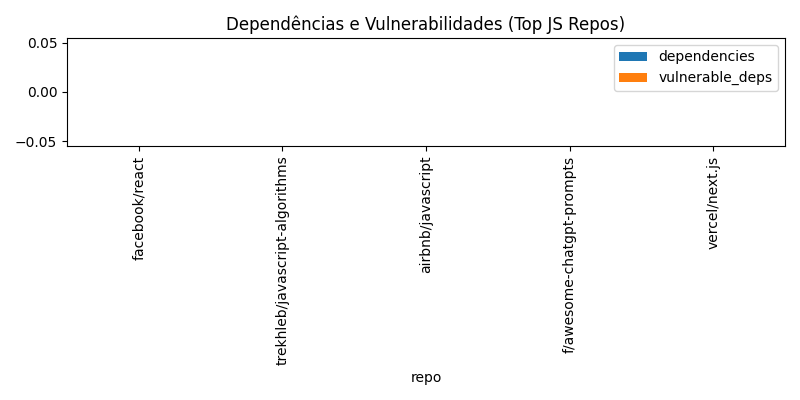
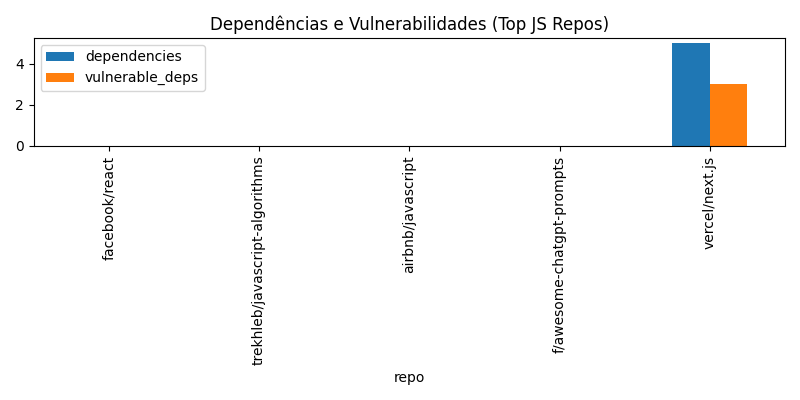
feat: adicionado busca dos pacotes vulneraveis pela api do cve, next possui vulnerabilidades

diff --git a/app/scripts/metrics.py b/app/scripts/metrics.py
@@ -2,12 +2,40 @@ import requests
 import json
 from scripts.github_api import fetch_package_json
 
+COMMON_PATHS = [
+    "",
+    "packages/react",
+    "packages/next",
+    "packages/core",
+    "apps",
+    "examples",
+    "src",
+]
+
+
+def try_fetch_any_package_json(repo_full_name):
+    """Tenta buscar o package.json em vários caminhos e escolhe o mais completo."""
+    best_pkg = None
+    best_path = ""
+    max_deps = 0
+
+    for path in COMMON_PATHS:
+        pkg = fetch_package_json(repo_full_name, subpath=path)
+        if not pkg:
+            continue
+
+        deps = pkg.get("dependencies", {})
+        total = len(deps)
+        if total > max_deps:
+            best_pkg = pkg
+            best_path = path
+            max_deps = total
+
+    return best_pkg, best_path
+
 
 def get_cve_for_package(package_name):
-    """
-    Busca vulnerabilidades (CVE) de um pacote NPM via API do OSV (Google).
-    Documentação: https://osv.dev/docs/
-    """
+    """Busca vulnerabilidades (CVE) de um pacote NPM via API do OSV.dev."""
     url = "https://api.osv.dev/v1/query"
     payload = {"package": {"name": package_name, "ecosystem": "npm"}}
     try:
@@ -22,10 +50,7 @@ def get_cve_for_package(package_name):
 
 
 def get_metrics(repo, token):
-    """
-    Coleta métricas principais: dependências e vulnerabilidades.
-    Não baixa o repositório completo — apenas o package.json.
-    """
+    """Coleta métricas principais: dependências e vulnerabilidades."""
     metrics = {
         "repo": repo["name"],
         "stars": repo["stars"],
@@ -34,21 +59,26 @@ def get_metrics(repo, token):
         "dev_dependencies": 0,
         "vulnerable_deps": 0,
         "cves": [],
+        "path_usado": "",
     }
 
-    pkg = fetch_package_json(repo["name"])
+    pkg, used_path = try_fetch_any_package_json(repo["name"])
     if not pkg:
+        print(f"⚠ Nenhum package.json encontrado em {repo['name']}")
         return metrics
 
     deps = pkg.get("dependencies", {})
     dev_deps = pkg.get("devDependencies", {})
+
     metrics["dependencies"] = len(deps)
     metrics["dev_dependencies"] = len(dev_deps)
+    metrics["path_usado"] = used_path or "root"
 
     total_vulns = 0
     cve_list = []
-    for dep in deps.keys():
-        count, ids = get_cve_for_package(dep)
+
+    for dep_name in deps.keys():
+        count, ids = get_cve_for_package(dep_name)
         total_vulns += count
         cve_list.extend(ids)
 

diff --git a/app/scripts/github_api.py b/app/scripts/github_api.py
@@ -32,13 +32,13 @@ def get_top_js_repos(limit=5):
     return repos
 
 
-def fetch_package_json(repo_full_name):
-    """Baixa apenas o package.json do repositório via API do GitHub."""
-    url = f"{GITHUB_API}/repos/{repo_full_name}/contents/package.json"
-    r = requests.get(url, headers=HEADERS)
+def fetch_package_json(repo_full_name, subpath=""):
+    """Baixa o package.json de uma subpasta (ou raiz) via API do GitHub."""
+    base_url = f"{GITHUB_API}/repos/{repo_full_name}/contents"
+    url = f"{base_url}/{subpath}/package.json" if subpath else f"{base_url}/package.json"
 
+    r = requests.get(url, headers=HEADERS)
     if r.status_code == 404:
-        print(f"⚠ Nenhum package.json encontrado em {repo_full_name}")
         return None
 
     r.raise_for_status()
@@ -49,7 +49,6 @@ def fetch_package_json(repo_full_name):
         try:
             return json.loads(decoded)
         except Exception as e:
-            print(f"⚠ Erro ao ler package.json em {repo_full_name}: {e}")
+            print(f"⚠ Erro ao ler package.json em {repo_full_name}/{subpath}: {e}")
             return None
-
     return None

diff --git a/app/scripts/utils.py b/app/scripts/utils.py
@@ -19,4 +19,4 @@ def run_command(command, cwd=None):
 def save_json(filepath, data):
     os.makedirs(os.path.dirname(filepath), exist_ok=True)
     with open(filepath, "w", encoding="utf-8") as f:
-        json.dump(data, f, indent=2)
+        json.dump(data, f, indent=2, ensure_ascii=False)

diff --git a/main.py b/main.py
@@ -9,7 +9,6 @@ from scripts.github_api import get_top_js_repos
 from scripts.metrics import get_metrics
 from scripts.utils import save_json
 
-
 load_dotenv()
 TOKEN = os.getenv("GITHUB_TOKEN")
 
